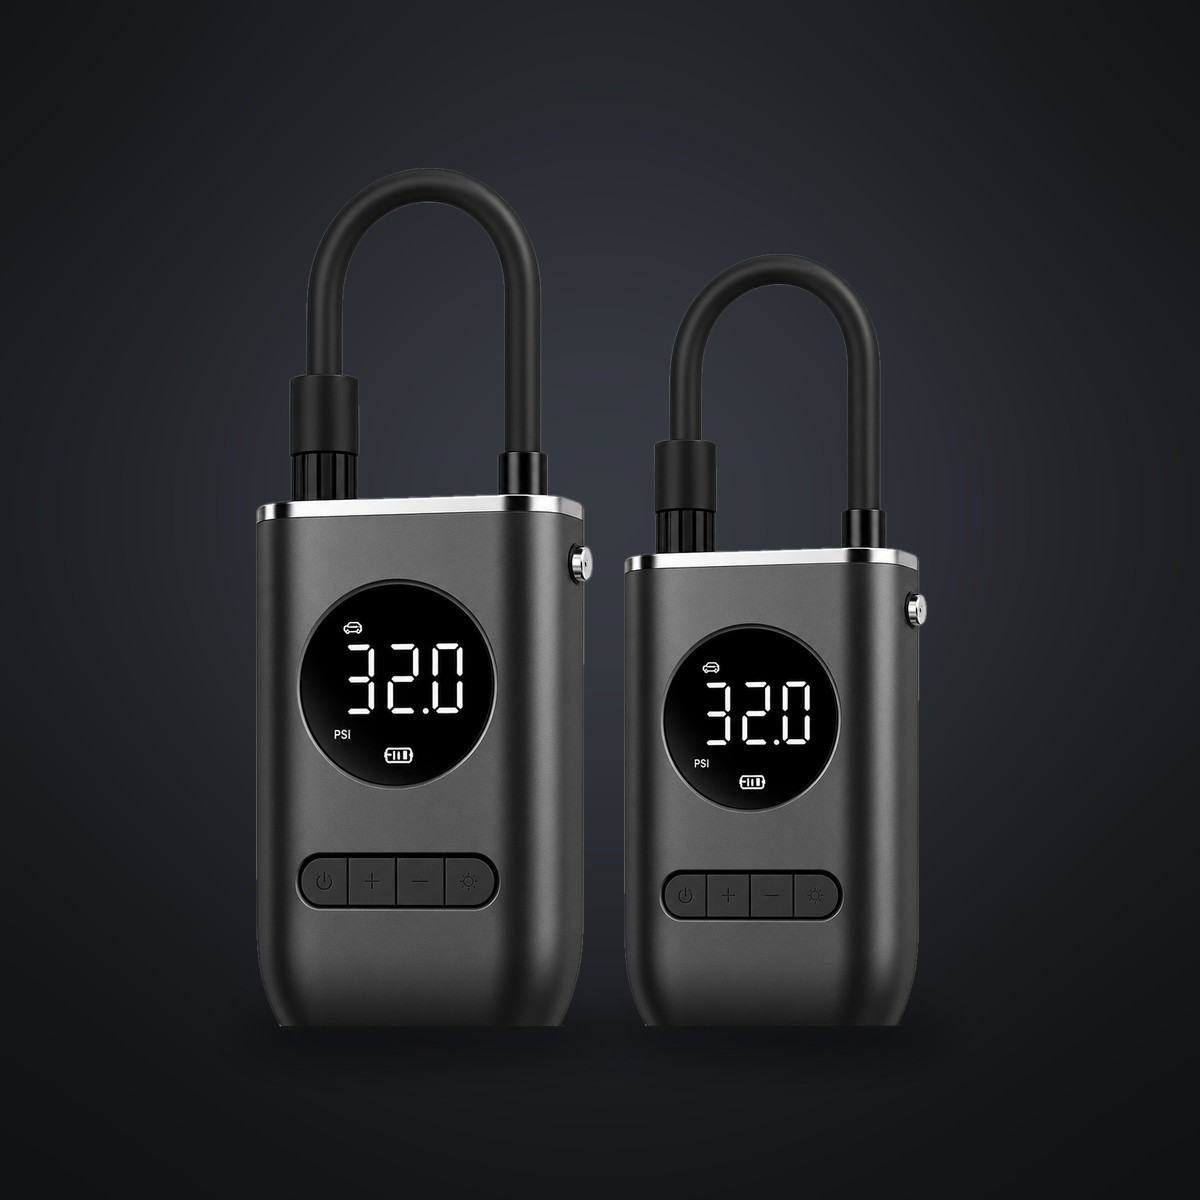
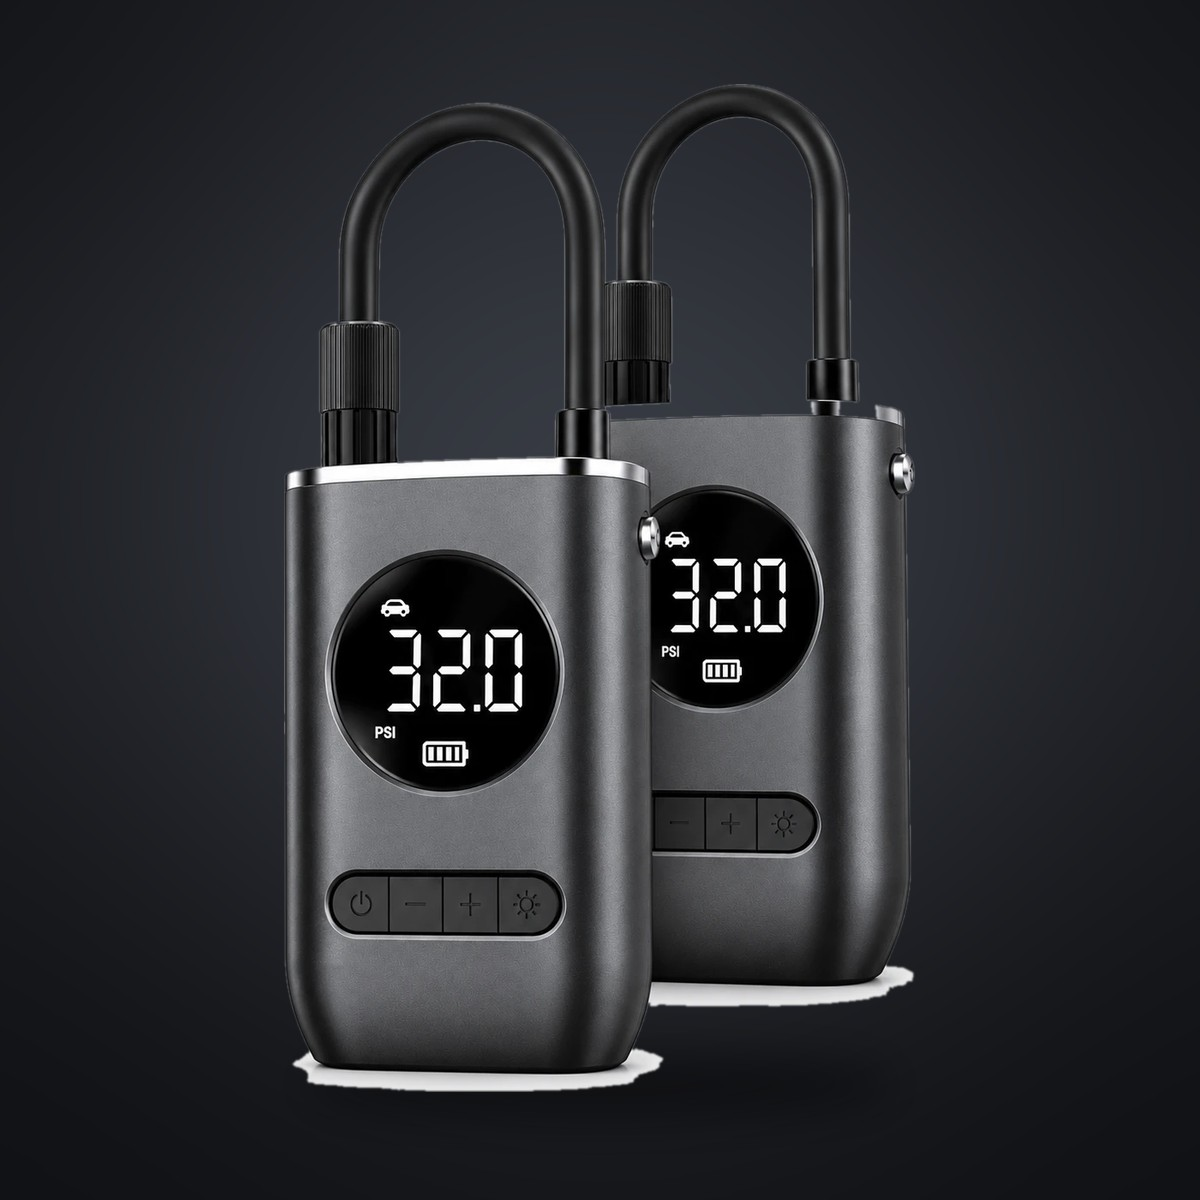
Fotos profesionales en detalles y pack, pack dúo a 189.900
Claude-Session: https://claude.ai/code/session_01B2aW4NxkcdNrbQMZuNL3mZ

Changed region(s): [[0.2158, 0.0925, 0.7708, 0.925], [0.555, 0.0925, 0.6167, 0.1233]]

diff --git a/assets/vx-styles.css b/assets/vx-styles.css
@@ -301,7 +301,7 @@
 .vx-celda--m { grid-column: span 5; grid-row: span 2; }
 .vx-celda--p { grid-column: span 4; grid-row: span 2; }
 .vx-celda--a { grid-column: span 6; grid-row: span 2; }
-.vx-celda__foto { flex: 1; min-height: 200px; background: #fff; overflow: hidden; }
+.vx-celda__foto { flex: 1; min-height: 280px; background: #101114; overflow: hidden; }
 .vx-celda__foto img { width: 100%; height: 100%; object-fit: cover; transition: transform 1.2s var(--vx-ease); }
 .vx-celda:hover .vx-celda__foto img { transform: scale(1.05); }
 .vx-celda__foto--contener img { object-fit: contain; padding: 18px; }

diff --git a/ESTADO.md b/ESTADO.md
@@ -90,6 +90,15 @@
 - Detalles: quitadas "Rosca firme" y "Cabe en todo"; quedan 3 tarjetas iguales.
 - Fotos del usuario (detalles + pack dúo): AÚN NO recibidas en Contenido → Archivos.
 
+## Cambios ronda 4 (2026-09-26)
+- Fotos profesionales del usuario (recibidas por chat): pack dúo (recortado a fondo
+  grafito -> assets/vx-pack-duo.jpg y subida al producto como foto del pack,
+  MediaImage 33551302131891 asignada a la variante), USB-C cargando (recortada a la
+  derecha y tapado el recuadro "Cargando..." -> vx-detalle-usbc-pro.jpg), linterna
+  (vx-detalle-linterna-pro.jpg), boquillas (recorte sobre grafito -> vx-detalle-boquillas-pro.jpg).
+- Detalles: fondo de fotos #101114, altura mínima 280px.
+- Pack dúo: precio 189.900 (tachado 219.800, ahorro 29.900).
+
 ## Pendiente
 - Auto-revisión visual: la tienda tiene contraseña -> pedirla al usuario.
 - Publicar el tema como activo solo con OK explícito.
